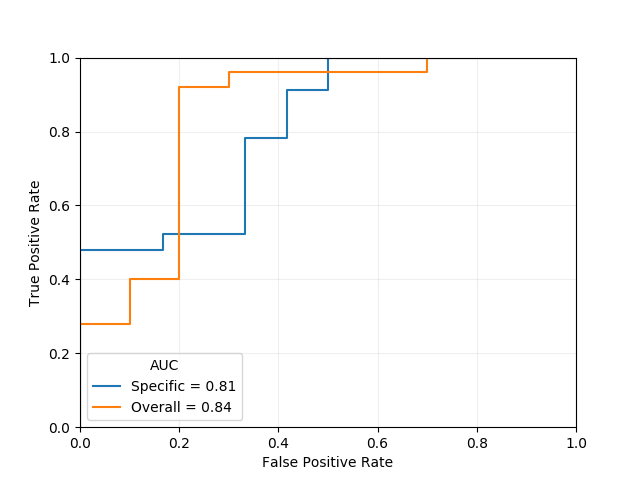
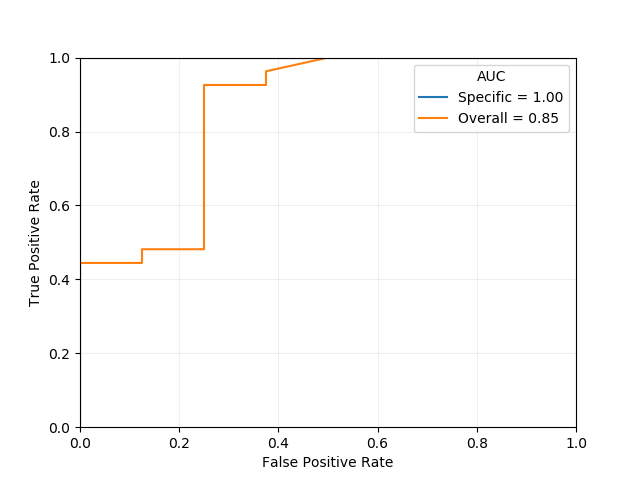
Sherlock

diff --git a/utils.py b/utils.py
@@ -43,7 +43,7 @@ def Loss(pred, strain, prob, ptrain, stest, ptest, model, xtest, epoch, best, L1
 	mse  = F.mse_loss(pred, strain)/mse_scale
 	bce  = F.binary_cross_entropy(prob, ptrain)
 
-	loss  = mse + bce + L1*model.L1_Loss()
+	loss  = 10*mse + bce/10 + L1*model.L1_Loss()
 
 	#Evaluate
 	if (epoch+1)%1 == 0:
@@ -94,15 +94,9 @@ def AUCplot(spec_model, over_model, spec_xtest, over_xtest, yspec, yover, spec_r
 	# Generate Calibration Curves
 	N = 4
 	strategy = 'uniform'
-<<<<<<< HEAD
 	spec_cal  = calibration_curve(yspec.data.cpu().numpy(), probspec.data.cpu().numpy(), n_bins=N, strategy=strategy)
-	over_cal  = calibration_curve(yspec.data.cpu().numpy(), probspec.data.cpu().numpy(), n_bins=N, strategy=strategy)
-	assert ((len(spec_cal[1])==N) and (len(over_cal[1])==N)), f'len is {len(spec_cal[1])}, {len(over_cal[1])} not {N}'
-=======
-	spec_cal  = calibration_curve(yspec.data.numpy(), probspec.data.numpy(), n_bins=N, strategy=strategy)
-	over_cal  = calibration_curve(yspec.data.numpy(), probspec.data.numpy(), n_bins=N, strategy=strategy)
+	over_cal  = calibration_curve(yover.data.cpu().numpy(), probover.data.cpu().numpy(), n_bins=N, strategy=strategy)
 	#URGENT assert ((len(spec_cal[1])==N) and (len(over_cal[1])==N)), f'len is {len(spec_cal[1])}, {len(over_cal[1])} not {N}'
->>>>>>> bc8c156d3783e7d3a0ab4005ad419d9dbdff5627
 	spec_cals.append(spec_cal)
 	over_cals.append(over_cal)
 
@@ -134,9 +128,9 @@ def AUCplot(spec_model, over_model, spec_xtest, over_xtest, yspec, yover, spec_r
 		mean_spec_roc = []
 
 		for ROC in spec_rocs:
-   			 mean_spec_tpr = interp(mean_fpr, ROC[0], ROC[1])
-   			 mean_spec_tpr[0] = 0.0
-   			 mean_spec_roc.append(mean_spec_tpr)
+			 mean_spec_tpr = interp(mean_fpr, ROC[0], ROC[1])
+			 mean_spec_tpr[0] = 0.0
+			 mean_spec_roc.append(mean_spec_tpr)
 
 		mean_spec_roc = np.array(mean_spec_roc)
 
@@ -171,9 +165,9 @@ def AUCplot(spec_model, over_model, spec_xtest, over_xtest, yspec, yover, spec_r
 		mean_over_roc = []
 
 		for ROC in over_rocs:
-   			 mean_over_tpr = interp(mean_fpr, ROC[0], ROC[1])
-   			 mean_over_tpr[0] = 0.0
-   			 mean_over_roc.append(mean_over_tpr)
+			 mean_over_tpr = interp(mean_fpr, ROC[0], ROC[1])
+			 mean_over_tpr[0] = 0.0
+			 mean_over_roc.append(mean_over_tpr)
 
 		mean_over_roc = np.array(mean_over_roc)
 		std_tpr = np.std(mean_over_roc, axis=0)
@@ -215,19 +209,15 @@ def AUCplot(spec_model, over_model, spec_xtest, over_xtest, yspec, yover, spec_r
 
 
 		# Calibration Plot
-<<<<<<< HEAD
-# Calibration Plot
-=======
->>>>>>> bc8c156d3783e7d3a0ab4005ad419d9dbdff5627
 		both_calfig, both_calax = plt.subplots()
 		mean_spec_cal = []
 		mean_over_cal = []
 		for CAL in spec_cals:
-   			 interp_spec_cal = interp(mean_fpr, CAL[1], CAL[0])
-   			 mean_spec_cal.append(interp_spec_cal)
+			 interp_spec_cal = interp(mean_fpr, CAL[1], CAL[0])
+			 mean_spec_cal.append(interp_spec_cal)
 
-   		std_spec_cal = np.std(np.array(mean_spec_cal), axis=0)
-		mean_spec_cal = np.mean(np.array(mean_specs_cal), axis=0)
+		std_spec_cal = np.std(np.array(mean_spec_cal), axis=0)
+		mean_spec_cal = np.mean(np.array(mean_spec_cal), axis=0)
 		spec_top = np.minimum(mean_spec_cal + std_spec_cal, 1)
 		spec_bot = np.maximum(mean_spec_cal - std_spec_cal, 0)
 		spec_mbs = [np.polyfit(CAL[1], CAL[0], 1) for CAL in spec_cals]
@@ -238,12 +228,15 @@ def AUCplot(spec_model, over_model, spec_xtest, over_xtest, yspec, yover, spec_r
 		spec_m_mean = np.mean(spec_ms)
 		spec_b_mean = np.mean(spec_bs)
 
-		for CAL in over_cals:
-   			 interp_over_cal = interp(mean_fpr, CAL[1], CAL[0])
-   			 mean_over_cal.append(interp_over_cal)
+		both_calax.plot(mean_fpr, mean_spec_cal, label = 'Specific', color = 'C0')
+		both_calax.fill_between(mean_fpr, spec_bot, spec_top, color='C0', alpha=.1)#, label=f'$\pm$ 1 DSS std')
 
-   		std_over_cal = np.std(np.array(mean_over_cal), axis=0)
-		mean_over_cal = np.mean(np.array(mean_overs_cal), axis=0)
+		for CAL in over_cals:
+			 interp_over_cal = interp(mean_fpr, CAL[1], CAL[0])
+			 mean_over_cal.append(interp_over_cal)
+
+		std_over_cal = np.std(np.array(mean_over_cal), axis=0)
+		mean_over_cal = np.mean(np.array(mean_over_cal), axis=0)
 		over_top = np.minimum(mean_over_cal + std_over_cal, 1)
 		over_bot = np.maximum(mean_over_cal - std_over_cal, 0)
 		over_mbs = [np.polyfit(CAL[1], CAL[0], 1) for CAL in over_cals]
@@ -254,10 +247,10 @@ def AUCplot(spec_model, over_model, spec_xtest, over_xtest, yspec, yover, spec_r
 		over_m_mean = np.mean(over_ms)
 		over_b_mean = np.mean(over_bs)
 
-		both_calax.plot(mean_fpr, mean_spec_cal)
-		both_calax.fill_between(mean_fpr, spec_bot, spec_top, legend = 'Specific', color='C0', alpha=.1)#, label=f'$\pm$ 1 DSS std')
-		both_calax.plot(mean_fpr, mean_over_cal)
-		both_calax.fill_between(mean_fpr, over_bot, over_top, legend = 'Overall', color='C0', alpha=.1)#, label=f'$\pm$ 1 DSS std')
+		print(np.abs(mean_over_cal-mean_spec_cal).mean())
+
+		both_calax.plot(mean_fpr, mean_over_cal, label = 'Overall', color = 'C1')
+		both_calax.fill_between(mean_fpr, over_bot, over_top, color='C1', alpha=.1)#, label=f'$\pm$ 1 DSS std')
 		both_calax.plot([0, 1], [0, 1], 'r--')
 		both_calax.grid(alpha=0.2)
 		both_calax.legend(loc=4)

diff --git a/train.py b/train.py
@@ -8,9 +8,9 @@ from utils import *
 
 
 # Training Parameters
-k = 3				# Groups for k-fold validation
-width = 128			# Width of model
-epochs = 4000		# Training epochs for each fold
+k = 5				# Groups for k-fold validation
+width = 512			# Width of model
+epochs = 4000			# Training epochs for each fold
 L2 = 1e-3			# L2 Regularization
 L1 = 1e-3			# L1 Regularization
 LR = 1e-3			# Learning Rate
@@ -28,7 +28,8 @@ spec_cals = []
 over_rocs = []
 over_cals = []
 
-model = Model(width)
+device = torch.device("cuda" if torch.cuda.is_available() else "cpu")
+model = Model(width).to(device)
 
 # K-fold validation
 for i in range(k):
@@ -38,14 +39,14 @@ for i in range(k):
 	
 
 	# Build Specific train/test set
-	spec_xtrain, spec_strain, spec_ptrain, spec_xtest, spec_stest, spec_ptest = train_and_test_set(Data, spec, groups1, i, k)
+	spec_xtrain, spec_strain, spec_ptrain, spec_xtest, spec_stest, spec_ptest = train_and_test_set(Data, spec, groups1, i, k, device)
 	best_spec = 0
 
 	print(f'Training Disease Specific Survival Model #{i} ')
 	for epoch in range(epochs):
 
 		if epoch == 0 and i == 0:
-			model = LSUVinit(model, spec_xtrain, needed_std = 1.0)
+			model = LSUVinit(model, spec_xtrain, needed_std = 1.0, cuda = True)
 			spec_model = copy.deepcopy(model)
 			over_model = copy.deepcopy(model)
 			spec_optim = torch.optim.Adam(spec_model.parameters(), lr = LR, weight_decay = L1)
@@ -77,7 +78,7 @@ for i in range(k):
 
 	# Build Overall train/test set and train
 
-	over_xtrain, over_strain, over_ptrain, over_xtest, over_stest, over_ptest = train_and_test_set(Data, over, groups2, i, k)
+	over_xtrain, over_strain, over_ptrain, over_xtest, over_stest, over_ptest = train_and_test_set(Data, over, groups2, i, k, device)
 
 	#over_model = Model(width)
 	best_over = 0
